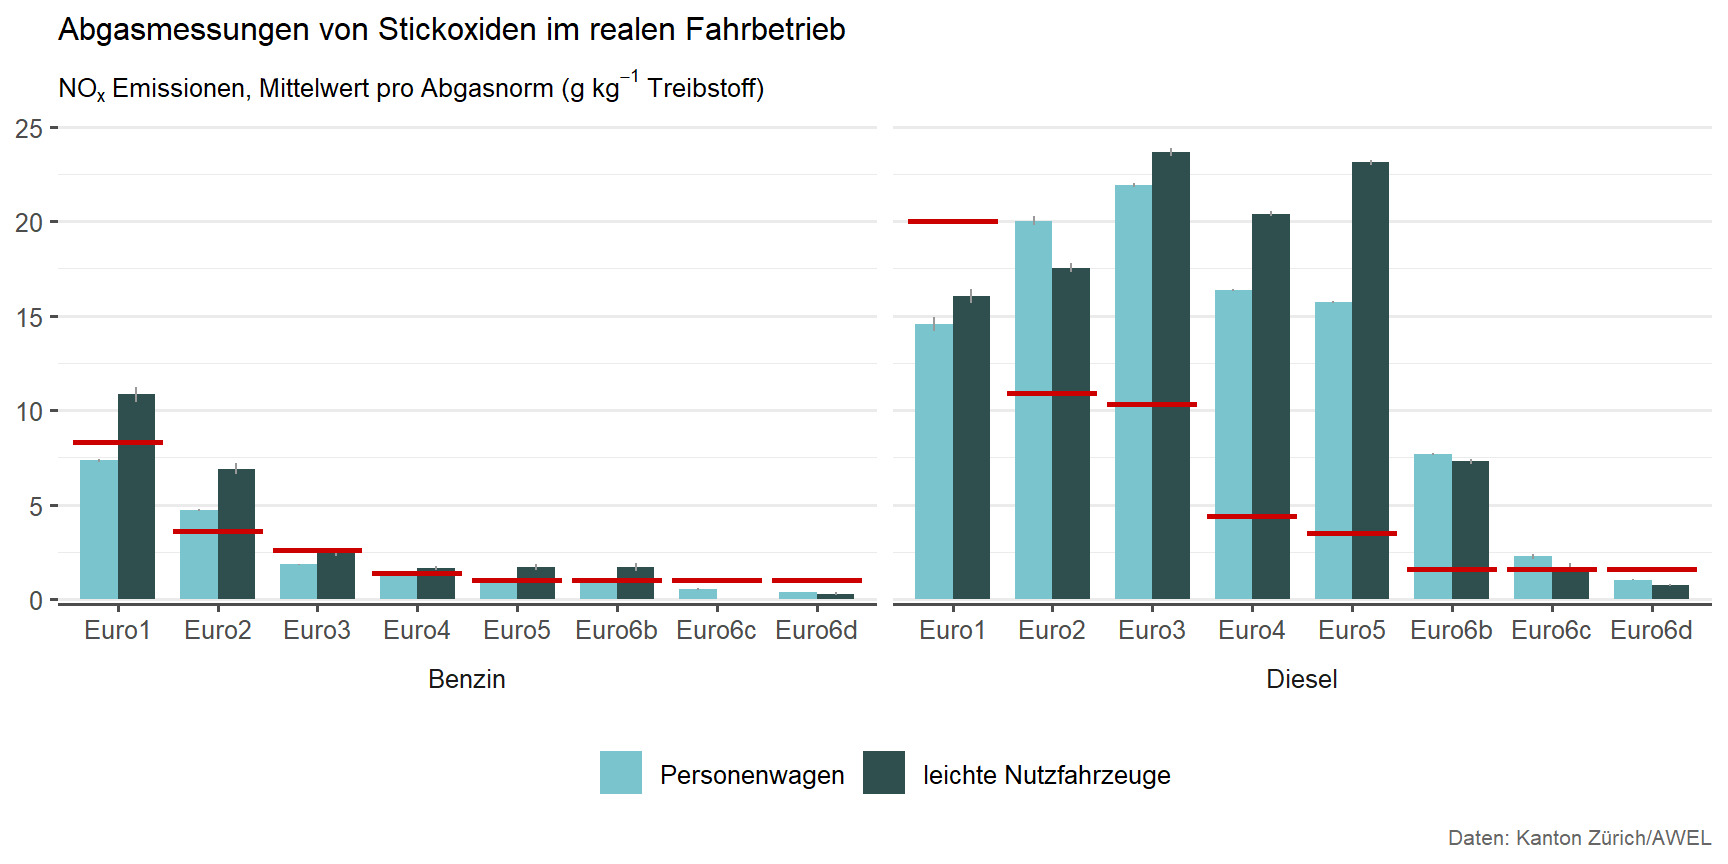
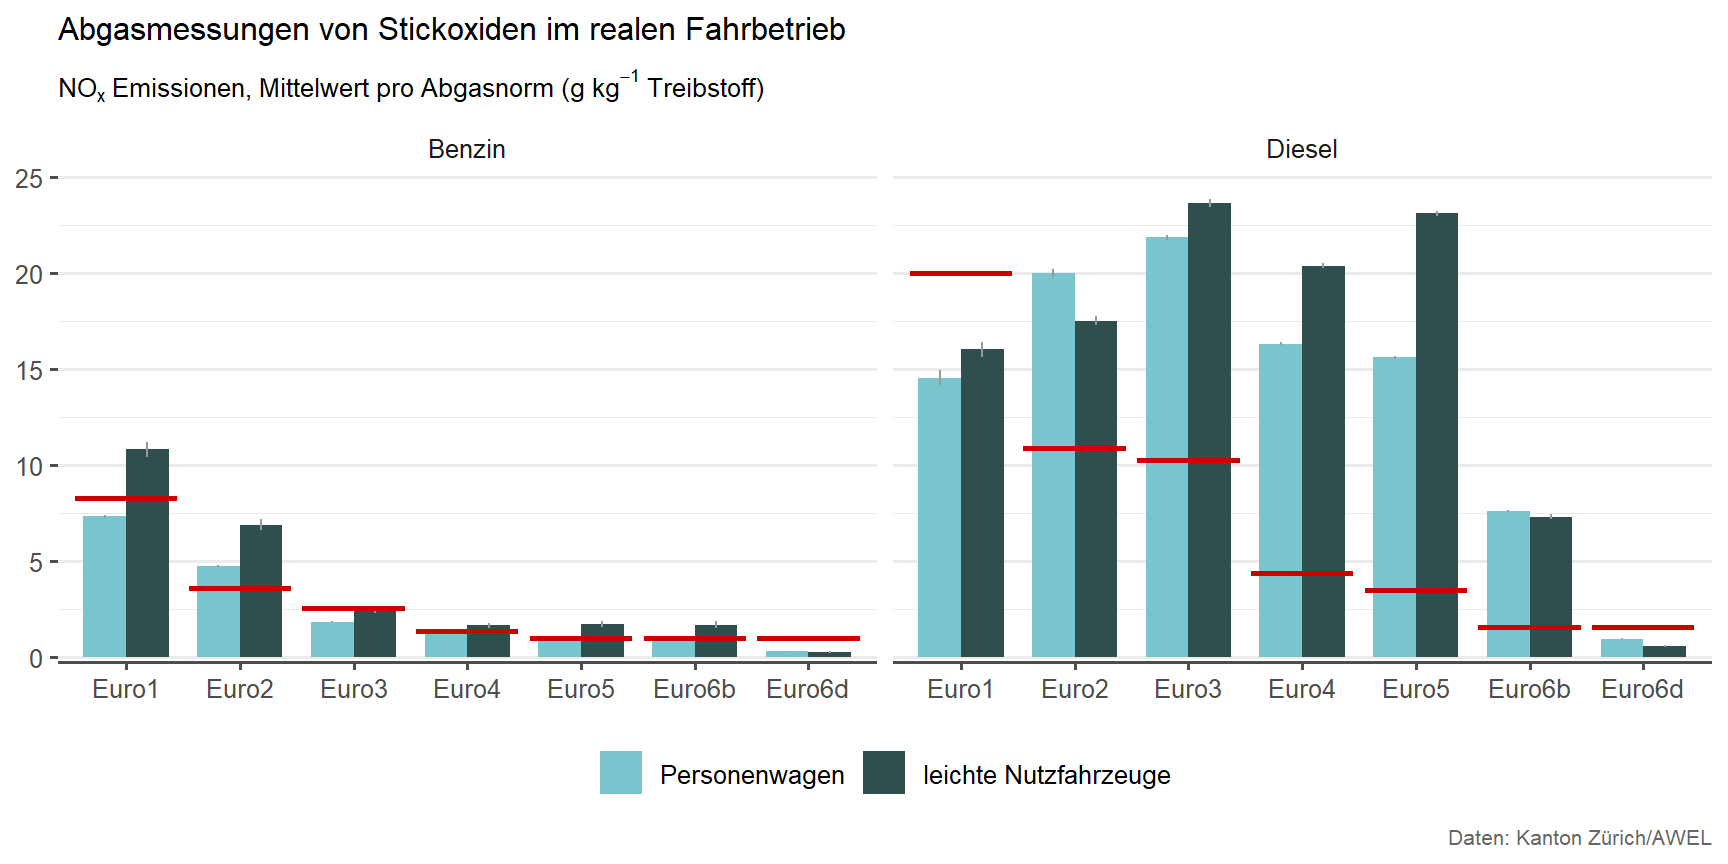
inkl.RSD Daten 2025

diff --git a/docs/about.html b/docs/about.html
@@ -172,7 +172,7 @@ ul.task-list li input[type="checkbox"] {
     <div>
     <div class="quarto-title-meta-heading">Published</div>
     <div class="quarto-title-meta-contents">
-      <p class="date">04. February 2026</p>
+      <p class="date">25. February 2026</p>
     </div>
   </div>
   
